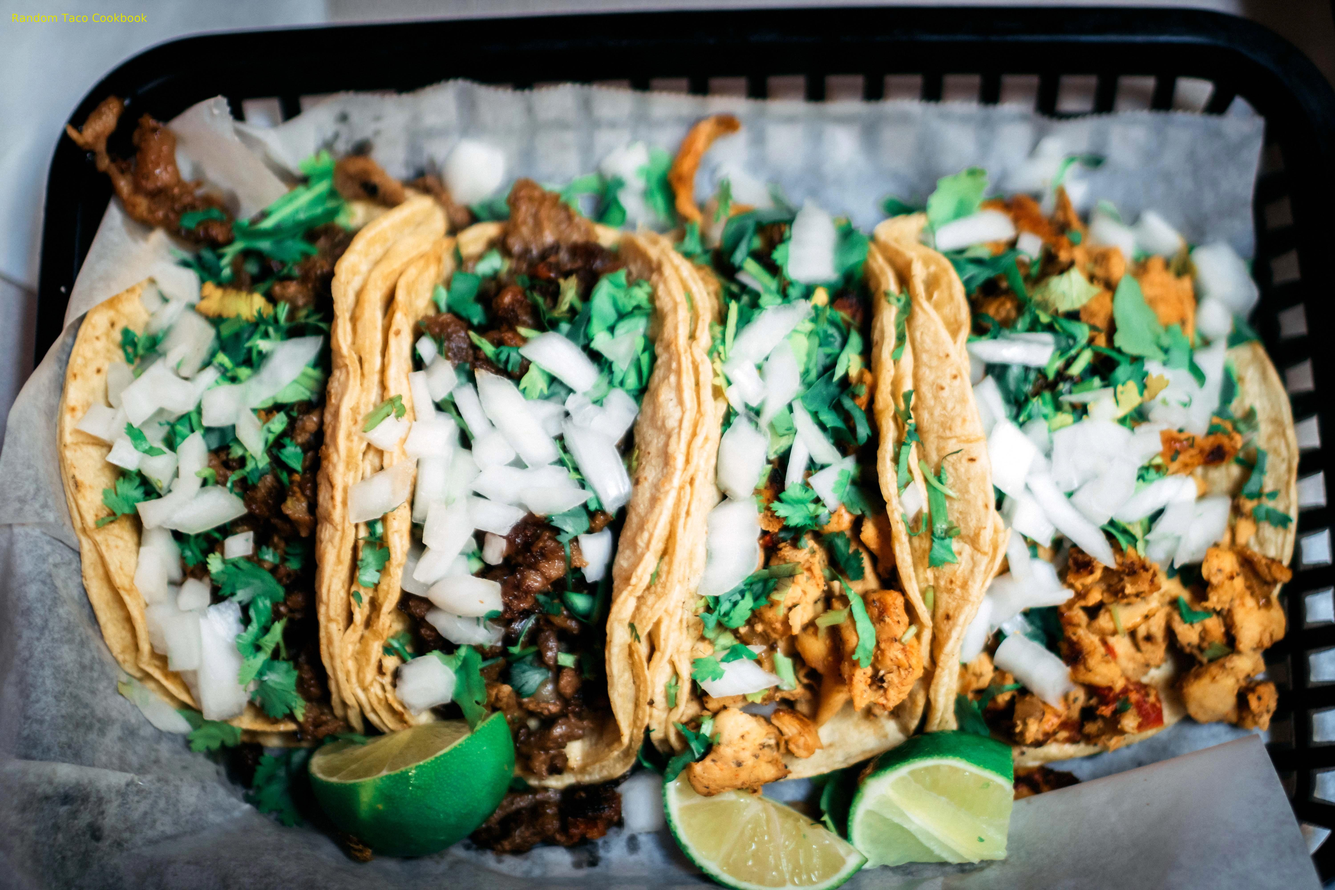
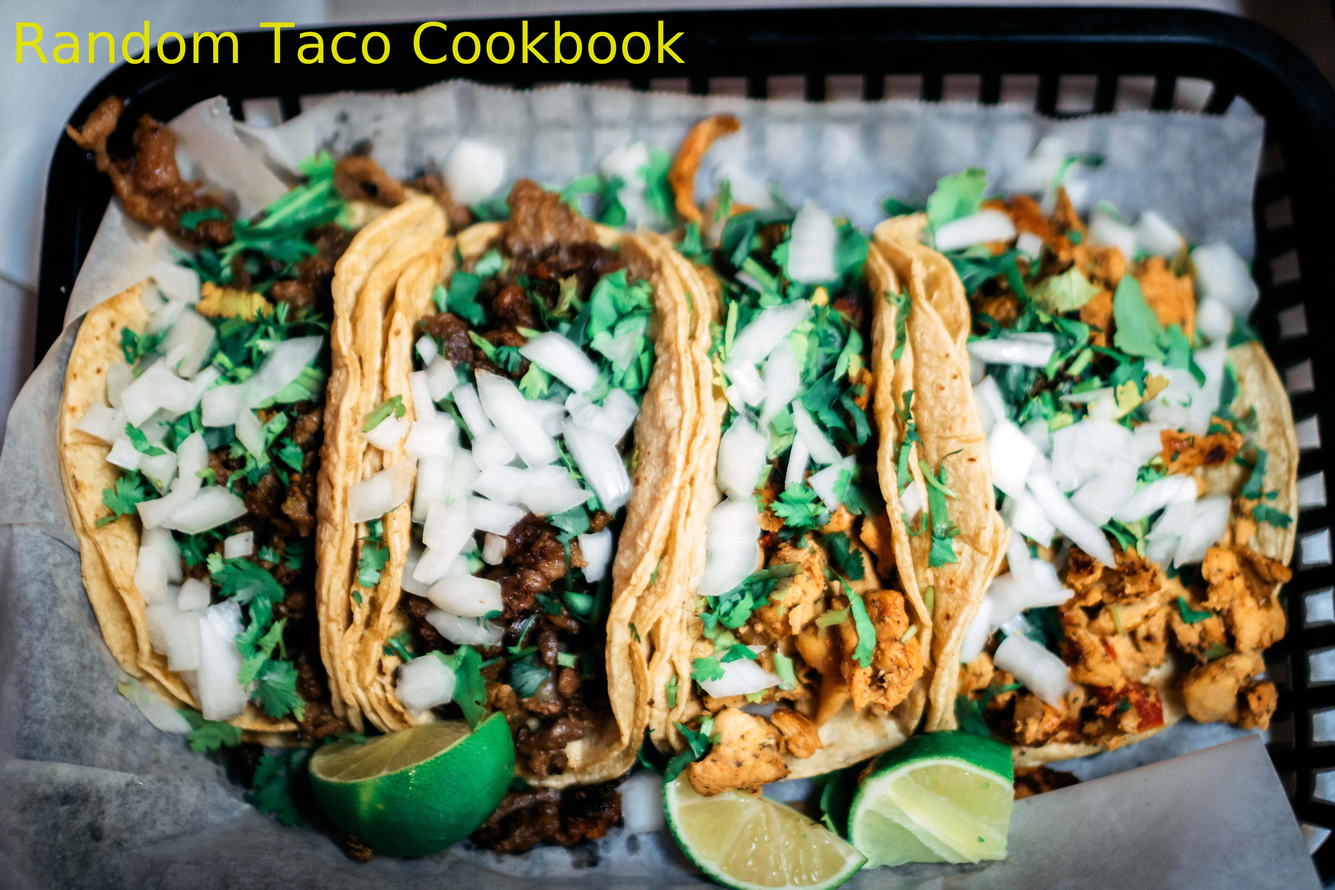
random taco cookbook

Changed region(s): [[0.0, 0.0, 0.5298, 0.0938]]

diff --git a/final.py b/final.py
@@ -15,9 +15,12 @@ half_size = im.resize((half_width, half_height))
 half_size.show()  # this would show my half size image
 half_size.save('half_size_taco.jpg')
 
-font = ImageFont.truetype('DejaVuSans.ttf', 50)  # font = ImageFont.truetype('DejaVuSans.ttf', 50)
+font = ImageFont.truetype('DejaVuSans.ttf', size=250)  # font = ImageFont.truetype('DejaVuSans.ttf', 50)
 draw = ImageDraw.Draw(im)  # drawing tool
-draw.text((15, 15), "Random Taco Cookbook", (225, 225, 0), font=font)  # specifiying my font color
+draw.text((50, 50), "Random Taco Cookbook", (225, 225, 0), font=font)  # specifiying my font color
+
+im.show()
+
 im.save('half_size_taco_text.jpg')
 
 taco_data = 'https://taco-1150.herokuapp.com/random/?full_taco=true'  # requesting data from url
@@ -67,3 +70,9 @@ def create_document(image_name, photo_info):
         names = ', '.join([name['name'] for name in recipe])
         # creates a headline for each recipe
         document.add_heading(names, 0)
+
+    for rec in recipe:
+        document.add_heading(recipe[rec]['name'], level=1)  # creates a heading for recipe list
+        document.add_paragraph(recipe[rec]['recipe'])  # adds list of recipe
+        # after looping, save the data in a word document
+        document.save('recipes.docx')
